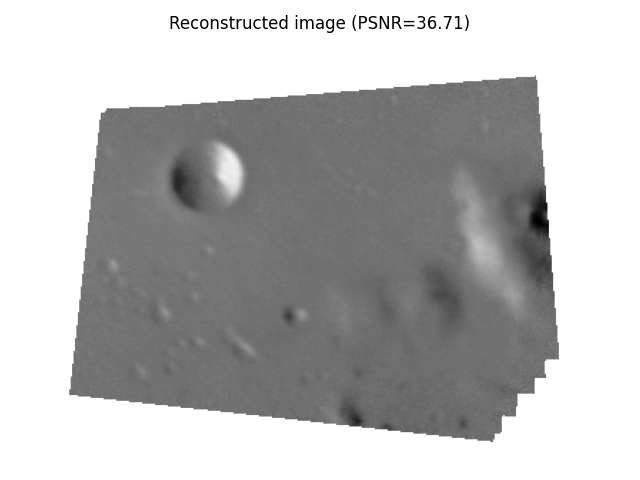
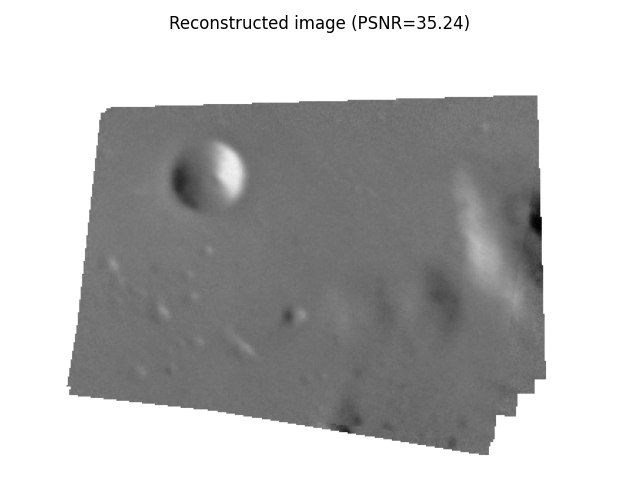
This works even if wrong

diff --git a/bin/registration.py b/bin/registration.py
@@ -24,6 +24,24 @@ def match_locations(img0, img1, coords0, coords1, radius=5, sigma=3):
 
     return np.array(match_list)
 
+def get_moon_data():
+    ############################################################################
+# Data generation
+# For this example, we generate a list of slightly tilted noisy images.
+
+    img = data.moon()
+
+    angle_list = [0, 5, 6, -2, 3, -4]
+    center_list = [(0, 0), (10, 10), (5, 12), (11, 21), (21, 17), (43, 15)]
+
+    img_list = [transform.rotate(img, angle=a, center=c)[40:240, 50:350]
+                for a, c in zip(angle_list, center_list)]
+    
+    img_list = [util.random_noise(filters.gaussian(im, 1.1), var=5e-4, rng=seed)
+                for seed, im in enumerate(img_list)]
+    
+    return img_list
+
 
 def registration(args):
 
@@ -42,43 +60,58 @@ def registration(args):
     #
     # For this example, we generate a list of slightly tilted noisy images.
         
-    all_data_array = []
-    
-    print(csv_path)
-    #img_list = []
-    loaded = False
+    #all_data_array = []
+    orig_img_list = []
+    orig_img_titles = []
+    orig_corners_list = []
     super_a = None
-    for p in paths:    
-        print(p)
-        p = p.replace("\\","")
-        p = p.replace("\"","")
-        p = p.replace("\"","")
-        print(p)
-        nams = p.split('_')
-        ttl = nams[3]        
-        with open(p, 'rb') as fnp:
-            a = np.load(fnp)
+    loaded = False
+    if filter == "DATA":
+        orig_img_list = get_moon_data()
+        for im in orig_img_list:
+            orig_img_titles.append("moon")
             if not loaded:
-                super_a = a
+                super_a = im.copy()
                 loaded = True
             else:
-                super_a += a
-            #img_list.append(a)
-            all_data_array.append([ttl,a])
+                super_a += im.copy()
+    else:
+        print(csv_path)
+        #img_list = []
+        
+        
+        for p in paths:    
+            print(p)
+            p = p.replace("\\","")
+            p = p.replace("\"","")
+            p = p.replace("\"","")
+            print(p)
+            nams = p.split('_')
+            ttl = nams[3]        
+            with open(p, 'rb') as fnp:
+                a = np.load(fnp)
+                if not loaded:
+                    super_a = a.copy()
+                    loaded = True
+                else:
+                    super_a += a.copy()
+                orig_img_titles.append(ttl)
+                orig_img_list.append(a)
+                
                 
     #ref_img = img_list[0].copy()
-    ref_img = all_data_array[0][1].copy()
+    ref_img = orig_img_list[0].copy()
+    
     
     maxmax = -100
     minmin = 100
-    for i in range(0,len(all_data_array)):
-        imm = all_data_array[i][1]
+    for imm in orig_img_list:        
         maxmax = max(maxmax,imm.max())
         minmin = min(minmin,imm.min())
 
     data_range = maxmax-minmin
 
-    psnr_ref = metrics.peak_signal_noise_ratio(ref_img, all_data_array[1][1],data_range=data_range)
+    psnr_ref = metrics.peak_signal_noise_ratio(ref_img, orig_img_list[0],data_range=data_range)
 
     ############################################################################
     # Image registration
@@ -94,15 +127,18 @@ def registration(args):
 
     min_dist = 5
     #corner_list = []
-    for i in range(len(all_data_array)):
-        img = all_data_array[i][1]
+    for i in range(len(orig_img_list)):
+        img = orig_img_list[i]
         harris_img = feature.corner_harris(img)
         print("----- CORNERS -----")        
         corners = feature.corner_peaks(harris_img, threshold_rel=0.001, min_distance=min_dist)
-        print(corners)        
-        #all_data_array[i].append(corners)
+        #orig_corners_list.append(corners)
+        print(corners)                
         # make corners up
-        all_data_array[i].append([[25,25],[25,28],[30,30]])
+        fake_corners=np.array([[25,25],[25,28],[30,30]])
+        orig_corners_list.append(fake_corners)
+        #all_data_array[i].append(fake_corners)
+        #print(fake_corners)
         
     
     
@@ -114,22 +150,22 @@ def registration(args):
     # references. Then the detected points on the other images are
     # matched to the reference points.
 
-    img0 = all_data_array[0][1]
-    coords0 = all_data_array[0][2]
-    for i in range(len(all_data_array)):        
-        coords1 = all_data_array[i][2]
-        if len(coords1)> 1:
-            coords0 = all_data_array[i][2]
-            img0 = all_data_array[0][1]
-            break
+    img0 = orig_img_list[0]
+    coords0 = orig_corners_list[0]
+    #for i in range(len(orig_img_list)):        
+    #    coords1 = orig_corners_list[i]
+    #    if len(coords1)> 1:
+    #        coords0 = all_data_array[i][2]
+    #        img0 = all_data_array[0][1]
+    #        break
     
-    #matching_corners = []
-    for i in range(len(all_data_array)):
-        img1 = all_data_array[i][1]
-        coords1 = all_data_array[i][2]
+    orig_matching_corners = []
+    for i in range(len(orig_img_list)):
+        img1 = orig_img_list[i]
+        coords1 = orig_corners_list[i]
         mc = match_locations(img0, img1, coords0, coords1, min_dist)
         #matching_corners.append(mc)
-        all_data_array[i].append(mc)
+        orig_matching_corners.append(mc)
         #for mmc in mc:
         #    print(type(mmc),mmc.shape,mmc,)
         
@@ -138,23 +174,27 @@ def registration(args):
     # relative affine transformations can be estimated using the RANSAC method.
     src = np.array(coords0)
         
-    #trfm_list = []
+    orig_trfm_list = []
     count = 0
     #for dst in matching_corners:
-    for i in range(len(all_data_array)):
-        dst = np.array(all_data_array[i][3])
-        try:
-            rnsc = measure.ransac((dst, src),transform.EuclideanTransform, min_samples=len(coords0),residual_threshold=2, max_trials=5000)
+    for i in range(len(orig_img_list)):
+        print(i,"ransac")
+        #dst = np.array(orig_matching_corners[i])
+        dst = orig_matching_corners[i]
+        try:                        
+            rnsc = measure.ransac((dst, src),transform.EuclideanTransform, min_samples=2,residual_threshold=2, max_trials=100)                
             if rnsc[0] is not None:
-                all_data_array[i].append(rnsc[0].params)
+                print("...",i,"ransac",rnsc[0])
+                orig_trfm_list.append(rnsc[0].params)
                 #trfm_list.append(rnsc[0].params)            
             else:
-                all_data_array[i].append(np.array([float("Nan")]))
+                print("...",i,"ransac none")
+                orig_trfm_list.append(np.array([float("Nan")]))
                 #trfm_list.append(np.array([float("Nan")]))
         except Exception as e:
             #trfm_list.append(np.array([float("Nan")]))
-            print(e)
-            all_data_array[i].append(np.array([float("Nan")]))
+            print("...",i,e,"ransac")
+            orig_trfm_list.append(np.array([float("Nan")]))
         
         count += 1
 
@@ -162,7 +202,7 @@ def registration(args):
     #fig, ax_list = plt.subplots(len(img_list), 2, figsize=(9,2*len(img_list)), sharex=True, sharey=True)
     #im_zipped = zip(img_list, trfm_list)
 
-    good_images = []
+    bad_titles = []
     bad_images = []
 
     # Set up the output report
@@ -172,26 +212,30 @@ def registration(args):
     rep.addBoxComment("Surface tilted")
     
     #for idx, (im, trfm) in enumerate(im_zipped):
-    for i in range(len(all_data_array)):
-        im = all_data_array[i][1]
-        trfm = all_data_array[i][4]
-        coords = all_data_array[i][2]
+    for i in range(len(orig_img_list)):
+        im = orig_img_list[i]
+        trfm = orig_trfm_list[i]
+        coords = orig_corners_list[i]
         
         if not math.isnan(trfm.max()):
             try:
                 tr_im = transform.warp(im, trfm)
                 print(i,len(tr_im[0]))             
-                rep.addLineComment(all_data_array[i][0])
-                rep.addContours(im[:, :, 0],overlay=True,colourbar=False)
+                rep.addLineComment(orig_img_titles[i])
+                if filter != "DATA":
+                    rep.addContours(im[:, :, 0],overlay=True,colourbar=False)
+                
                 rep.addPoints2d([coords],overlay=False,hue="limegreen")
                 rep.addSurface(im)        
                 rep.addSurface(tr_im)
-                good_images.append(all_data_array[i])
-            except:
-                print("error tilting",i)
-                bad_images.append(all_data_array[i])
+                #good_images.append(all_data_array[i])
+            except Exception as e:
+                print("error tilting",i,e)
+                bad_images.append(im)
+                bad_titles.append(orig_img_titles[i])
         else:
-            bad_images.append(all_data_array[i])
+            bad_images.append(im)
+            bad_titles.append(orig_img_titles[i])
         
 
     ############################################################################
@@ -206,7 +250,10 @@ def registration(args):
     # A global transformation is defined to move the reference image in the
     # global domain image via a simple translation:
     margin = 50
-    height, width,depth = ref_img.shape
+    try:
+        height, width,depth = ref_img.shape
+    except:
+        height, width = ref_img.shape
     out_shape = height + 2 * margin, width + 2 * margin
     glob_trfm = np.eye(3)
     glob_trfm[:2, 2] = -margin, -margin
@@ -217,14 +264,20 @@ def registration(args):
     # relative transformations:
     rep.addLineComment("Superposition")
     rep.changeColNumber(3)
-    if len(good_images) > 0:
+    if len(bad_images) != len(orig_img_list):
         global_img_list = []
-        for i in range(len(good_images)):
-            im = good_images[i][1]
-            trfm = good_images[i][4]
-            global_img_list.append(transform.warp(img, trfm.dot(glob_trfm),
+        for i in range(len(orig_img_list)):
+            img = orig_img_list[i]
+            trfm = orig_trfm_list[i]
+            try:
+                warped = transform.warp(img, trfm.dot(glob_trfm),
                                         output_shape=out_shape,
-                                        mode="constant", cval=np.nan))
+                                        mode="constant", cval=np.nan)
+            
+                global_img_list.append(warped)
+            
+            except Exception as e:
+                print(e)
                         
 
         
@@ -239,15 +292,19 @@ def registration(args):
             data_range=data_range)
 
         rep.addSurface(composite_img, title="image registration")
-    rep.addBoxComment("")
+    rep.addBoxComment("")    
+    #if filter == "DATA":
+    #    rep.addBoxComment("")    
+    #else:
     rep.addSurface(super_a, title="simple superposition")
+    
         
     
     rep.changeColNumber(3)
     rep.addLineComment("Bad images")
-    for im in bad_images:
-        ikm = im[1]
-        tl = im[0]
+    for i in range(len(bad_images)):
+        ikm = bad_images[i]
+        tl = bad_titles[i]
         rep.addSurface(ikm,title=tl)
     rep.addBoxComment("")
     rep.addBoxComment("")

diff --git a/bin/_tst_nf_overlay.py b/bin/_tst_nf_overlay.py
@@ -18,11 +18,12 @@ import math
 #bo.overlay(["","/home/rachel/phd/leuci-async/leuci-flow/results","2d","small","PI"])
 #bo.overlay(["", "3d", "small", "PI", "3d_matrices_4nir_0_small_PI.npy", "3d_matrices_4nir_5_small_PI.npy", "3d_matrices_4nir_7_small_PI.npy"])
 
-cmdsl = "registration.py 2d small TAU all_data_small_TAU_.csv 2d_matrices_1ejg_\(A\|ALA\|45\|CA\|618\)\(A\|ALA\|45\|N\|617\)\(A\|ALA\|45\|C\|619\)_small_TAU.npy 2d_matrices_1ejg_(A|ARG|10|CA|122)(A|ARG|10|N|121)(A|ARG|10|C|123)_small_TAU.npy 2d_matrices_1ejg_\(A\|ARG\|17\|CA\|231\)\(A\|ARG\|17\|N\|230\)\(A\|ARG\|17\|C\|232\)_small_TAU.npy 2d_matrices_1ejg_\(A\|ALA\|27\|CA\|377\)\(A\|ALA\|27\|N\|376\)\(A\|ALA\|27\|C\|378\)_small_TAU.npy"# 2d_matrices_1ejg_\(A\|ALA\|24\|CA\|338\)\(A\|ALA\|24\|N\|337\)\(A\|ALA\|24\|C\|339\)_small_TAU.npy 2d_matrices_1ejg_\(A\|ALA\|9\|CA\|112\)\(A\|ALA\|9\|N\|111\)\(A\|ALA\|9\|C\|113\)_small_TAU.npy 2d_matrices_1ejg_\(A\|CYS\|16\|CA\|221\)\(A\|CYS\|16\|N\|220\)\(A\|CYS\|16\|C\|222\)_small_TAU.npy 2d_matrices_1ejg_\(A\|ALA\|38\|CA\|531\)\(A\|ALA\|38\|N\|530\)\(A\|ALA\|38\|C\|532\)_small_TAU.npy 2d_matrices_1ejg_\(A\|ASN\|46\|CA\|628\)\(A\|ASN\|46\|N\|627\)\(A\|ASN\|46\|C\|629\)_small_TAU.npy 2d_matrices_1ejg_\(A\|ASP\|43\|CA\|585\)\(A\|ASP\|43\|N\|584\)\(A\|ASP\|43\|C\|586\)_small_TAU.npy 2d_matrices_1ejg_\(A\|GLY\|37\|CA\|524\)\(A\|GLY\|37\|N\|523\)\(A\|GLY\|37\|C\|525\)_small_TAU.npy 2d_matrices_1ejg_\(A\|CYS\|3\|CA\|32\)\(A\|CYS\|3\|N\|31\)\(A\|CYS\|3\|C\|33\)_small_TAU.npy 2d_matrices_1ejg_\(A\|CYS\|26\|CA\|367\)\(A\|CYS\|26\|N\|366\)\(A\|CYS\|26\|C\|368\)_small_TAU.npy 2d_matrices_1ejg_\(A\|ASN\|14\|CA\|191\)\(A\|ASN\|14\|N\|190\)\(A\|ASN\|14\|C\|192\)_small_TAU.npy 2d_matrices_1ejg_\(A\|GLY\|42\|CA\|578\)\(A\|GLY\|42\|N\|577\)\(A\|GLY\|42\|C\|579\)_small_TAU.npy 2d_matrices_1ejg_\(A\|ILE\|33\|CA\|453\)\(A\|ILE\|33\|N\|452\)\(A\|ILE\|33\|C\|454\)_small_TAU.npy 2d_matrices_1ejg_\(A\|GLY\|31\|CA\|436\)\(A\|GLY\|31\|N\|435\)\(A\|GLY\|31\|C\|437\)_small_TAU.npy 2d_matrices_1ejg_\(A\|CYS\|4\|CA\|42\)\(A\|CYS\|4\|N\|41\)\(A\|CYS\|4\|C\|43\)_small_TAU.npy 2d_matrices_1ejg_\(A\|GLU\|23\|CA\|323\)\(A\|GLU\|23\|N\|322\)\(A\|GLU\|23\|C\|324\)_small_TAU.npy 2d_matrices_1ejg_\(A\|CYS\|40\|CA\|554\)\(A\|CYS\|40\|N\|553\)\(A\|CYS\|40\|C\|555\)_small_TAU.npy 2d_matrices_1ejg_\(A\|ILE\|34\|CA\|472\)\(A\|ILE\|34\|N\|471\)\(A\|ILE\|34\|C\|473\)_small_TAU.npy 2d_matrices_1ejg_\(A\|CYS\|32\|CA\|443\)\(A\|CYS\|32\|N\|442\)\(A\|CYS\|32\|C\|444\)_small_TAU.npy 2d_matrices_1ejg_\(A\|GLY\|20\|CA\|288\)\(A\|GLY\|20\|N\|287\)\(A\|GLY\|20\|C\|289\)_small_TAU.npy 2d_matrices_1ejg_\(A\|PHE\|13\|CA\|171\)\(A\|PHE\|13\|N\|170\)\(A\|PHE\|13\|C\|172\)_small_TAU.npy 2d_matrices_1ejg_\(A\|ILE\|35\|CA\|491\)\(A\|ILE\|35\|N\|490\)\(A\|ILE\|35\|C\|492\)_small_TAU.npy 2d_matrices_1ejg_\(A\|LEU\|18\|CA\|255\)\(A\|LEU\|18\|N\|254\)\(A\|LEU\|18\|C\|256\)_small_TAU.npy 2d_matrices_1ejg_\(A\|PRO\|41\|CA\|564\)\(A\|PRO\|41\|N\|563\)\(A\|PRO\|41\|C\|565\)_small_TAU.npy 2d_matrices_1ejg_\(A\|PRO\|36\|CA\|510\)\(A\|PRO\|36\|N\|509\)\(A\|PRO\|36\|C\|511\)_small_TAU.npy 2d_matrices_1ejg_\(A\|PRO\|19\|CA\|274\)\(A\|PRO\|19\|N\|273\)\(A\|PRO\|19\|C\|275\)_small_TAU.npy 2d_matrices_1ejg_\(A\|PRO\|5\|CA\|52\)\(A\|PRO\|5\|N\|51\)\(A\|PRO\|5\|C\|53\)_small_TAU.npy 2d_matrices_1ejg_\(A\|SER\|6\|CA\|66\)\(A\|SER\|6\|N\|65\)\(A\|SER\|6\|C\|67\)_small_TAU.npy 2d_matrices_1ejg_\(A\|THR\|30\|CA\|422\)\(A\|THR\|30\|N\|421\)\(A\|THR\|30\|C\|423\)_small_TAU.npy 2d_matrices_1ejg_\(A\|THR\|21\|CA\|295\)\(A\|THR\|21\|N\|294\)\(A\|THR\|21\|C\|296\)_small_TAU.npy 2d_matrices_1ejg_\(A\|TYR\|29\|CA\|401\)\(A\|TYR\|29\|N\|400\)\(A\|TYR\|29\|C\|402\)_small_TAU.npy 2d_matrices_1ejg_\(A\|VAL\|15\|CA\|205\)\(A\|VAL\|15\|N\|204\)\(A\|VAL\|15\|C\|206\)_small_TAU.npy 2d_matrices_1ejg_\(A\|THR\|39\|CA\|541\)\(A\|THR\|39\|N\|540\)\(A\|THR\|39\|C\|542\)_small_TAU.npy 2d_matrices_1ejg_\(A\|SER\|11\|CA\|146\)\(A\|SER\|11\|N\|145\)\(A\|SER\|11\|C\|147\)_small_TAU.npy 2d_matrices_1ejg_\(A\|TYR\|44\|CA\|597\)\(A\|TYR\|44\|N\|596\)\(A\|TYR\|44\|C\|598\)_small_TAU.npy 2d_matrices_1ejg_\(A\|THR\|28\|CA\|387\)\(A\|THR\|28\|N\|386\)\(A\|THR\|28\|C\|388\)_small_TAU.npy"
+cmdsl = "registration.py 2d small TAU all_data_small_TAU_.csv 2d_matrices_1ejg_\(A\|CYS\|3\|CA\|32\)\(A\|CYS\|3\|N\|31\)\(A\|CYS\|3\|C\|33\)_small_TAU.npy 2d_matrices_1ejg_\(A\|CYS\|16\|CA\|221\)\(A\|CYS\|16\|N\|220\)\(A\|CYS\|16\|C\|222\)_small_TAU.npy 2d_matrices_1ejg_\(A\|CYS\|40\|CA\|554\)\(A\|CYS\|40\|N\|553\)\(A\|CYS\|40\|C\|555\)_small_TAU.npy 2d_matrices_1ejg_\(A\|CYS\|26\|CA\|367\)\(A\|CYS\|26\|N\|366\)\(A\|CYS\|26\|C\|368\)_small_TAU.npy 2d_matrices_1ejg_\(A\|CYS\|32\|CA\|443\)\(A\|CYS\|32\|N\|442\)\(A\|CYS\|32\|C\|444\)_small_TAU.npy 2d_matrices_1ejg_\(A\|CYS\|4\|CA\|42\)\(A\|CYS\|4\|N\|41\)\(A\|CYS\|4\|C\|43\)_small_TAU.npy"
+#cmdsl = "registration.py 2d data DATA all_data_small_TAU_.csv 2d_matrices_1ejg_\(A\|CYS\|32\|CA\|443\)\(A\|CYS\|32\|N\|442\)\(A\|CYS\|32\|C\|444\)_small_TAU.npy 2d_matrices_1ejg_\(A\|CYS\|26\|CA\|367\)\(A\|CYS\|26\|N\|366\)\(A\|CYS\|26\|C\|368\)_small_TAU.npy 2d_matrices_1ejg_\(A\|CYS\|3\|CA\|32\)\(A\|CYS\|3\|N\|31\)\(A\|CYS\|3\|C\|33\)_small_TAU.npy 2d_matrices_1ejg_\(A\|CYS\|16\|CA\|221\)\(A\|CYS\|16\|N\|220\)\(A\|CYS\|16\|C\|222\)_small_TAU.npy 2d_matrices_1ejg_\(A\|CYS\|4\|CA\|42\)\(A\|CYS\|4\|N\|41\)\(A\|CYS\|4\|C\|43\)_small_TAU.npy 2d_matrices_1ejg_\(A\|CYS\|40\|CA\|554\)\(A\|CYS\|40\|N\|553\)\(A\|CYS\|40\|C\|555\)_small_TAU.npy"
+
+
 cmds = cmdsl.split(" ")
-#cmds = ["","2d","small","TAU","all_data_small_TAU_.csv"]
-#for i in [3,2,1,5,0,4]:#range(0,6):
-#    cmds.append(f"2d_matrices_1ejg_{i}_small_TAU.npy")
+
 br.registration(cmds)
 
 

diff --git a/bin/data.py b/bin/data.py
@@ -37,6 +37,13 @@ def data(args):
         print("----- filter -----")    
         df = df.loc[(df['occ_CA:N:C'] == 1) ]
         df["KEY"] = df['info_CA:N:C']
+    elif filter == "DATA": #pi electrons around tyrosine
+        geos = ['CA:N','CA:C','CA:N:C']
+        #geos = ['CA:N','CA:C','CA:N:C']
+        df = gm.calculateGeometry(geos,log=0)
+        print("----- filter -----")    
+        df = df.loc[(df['occ_CA:N:C'] == 1) ]
+        df["KEY"] = df['info_CA:N:C']
     elif filter == "PB": #peptide bond
     # split this into a data frame per row to save memory
         geos = ['C:N+1[aa|CYS]','C:CA','C:O','C:CA:N+1']
